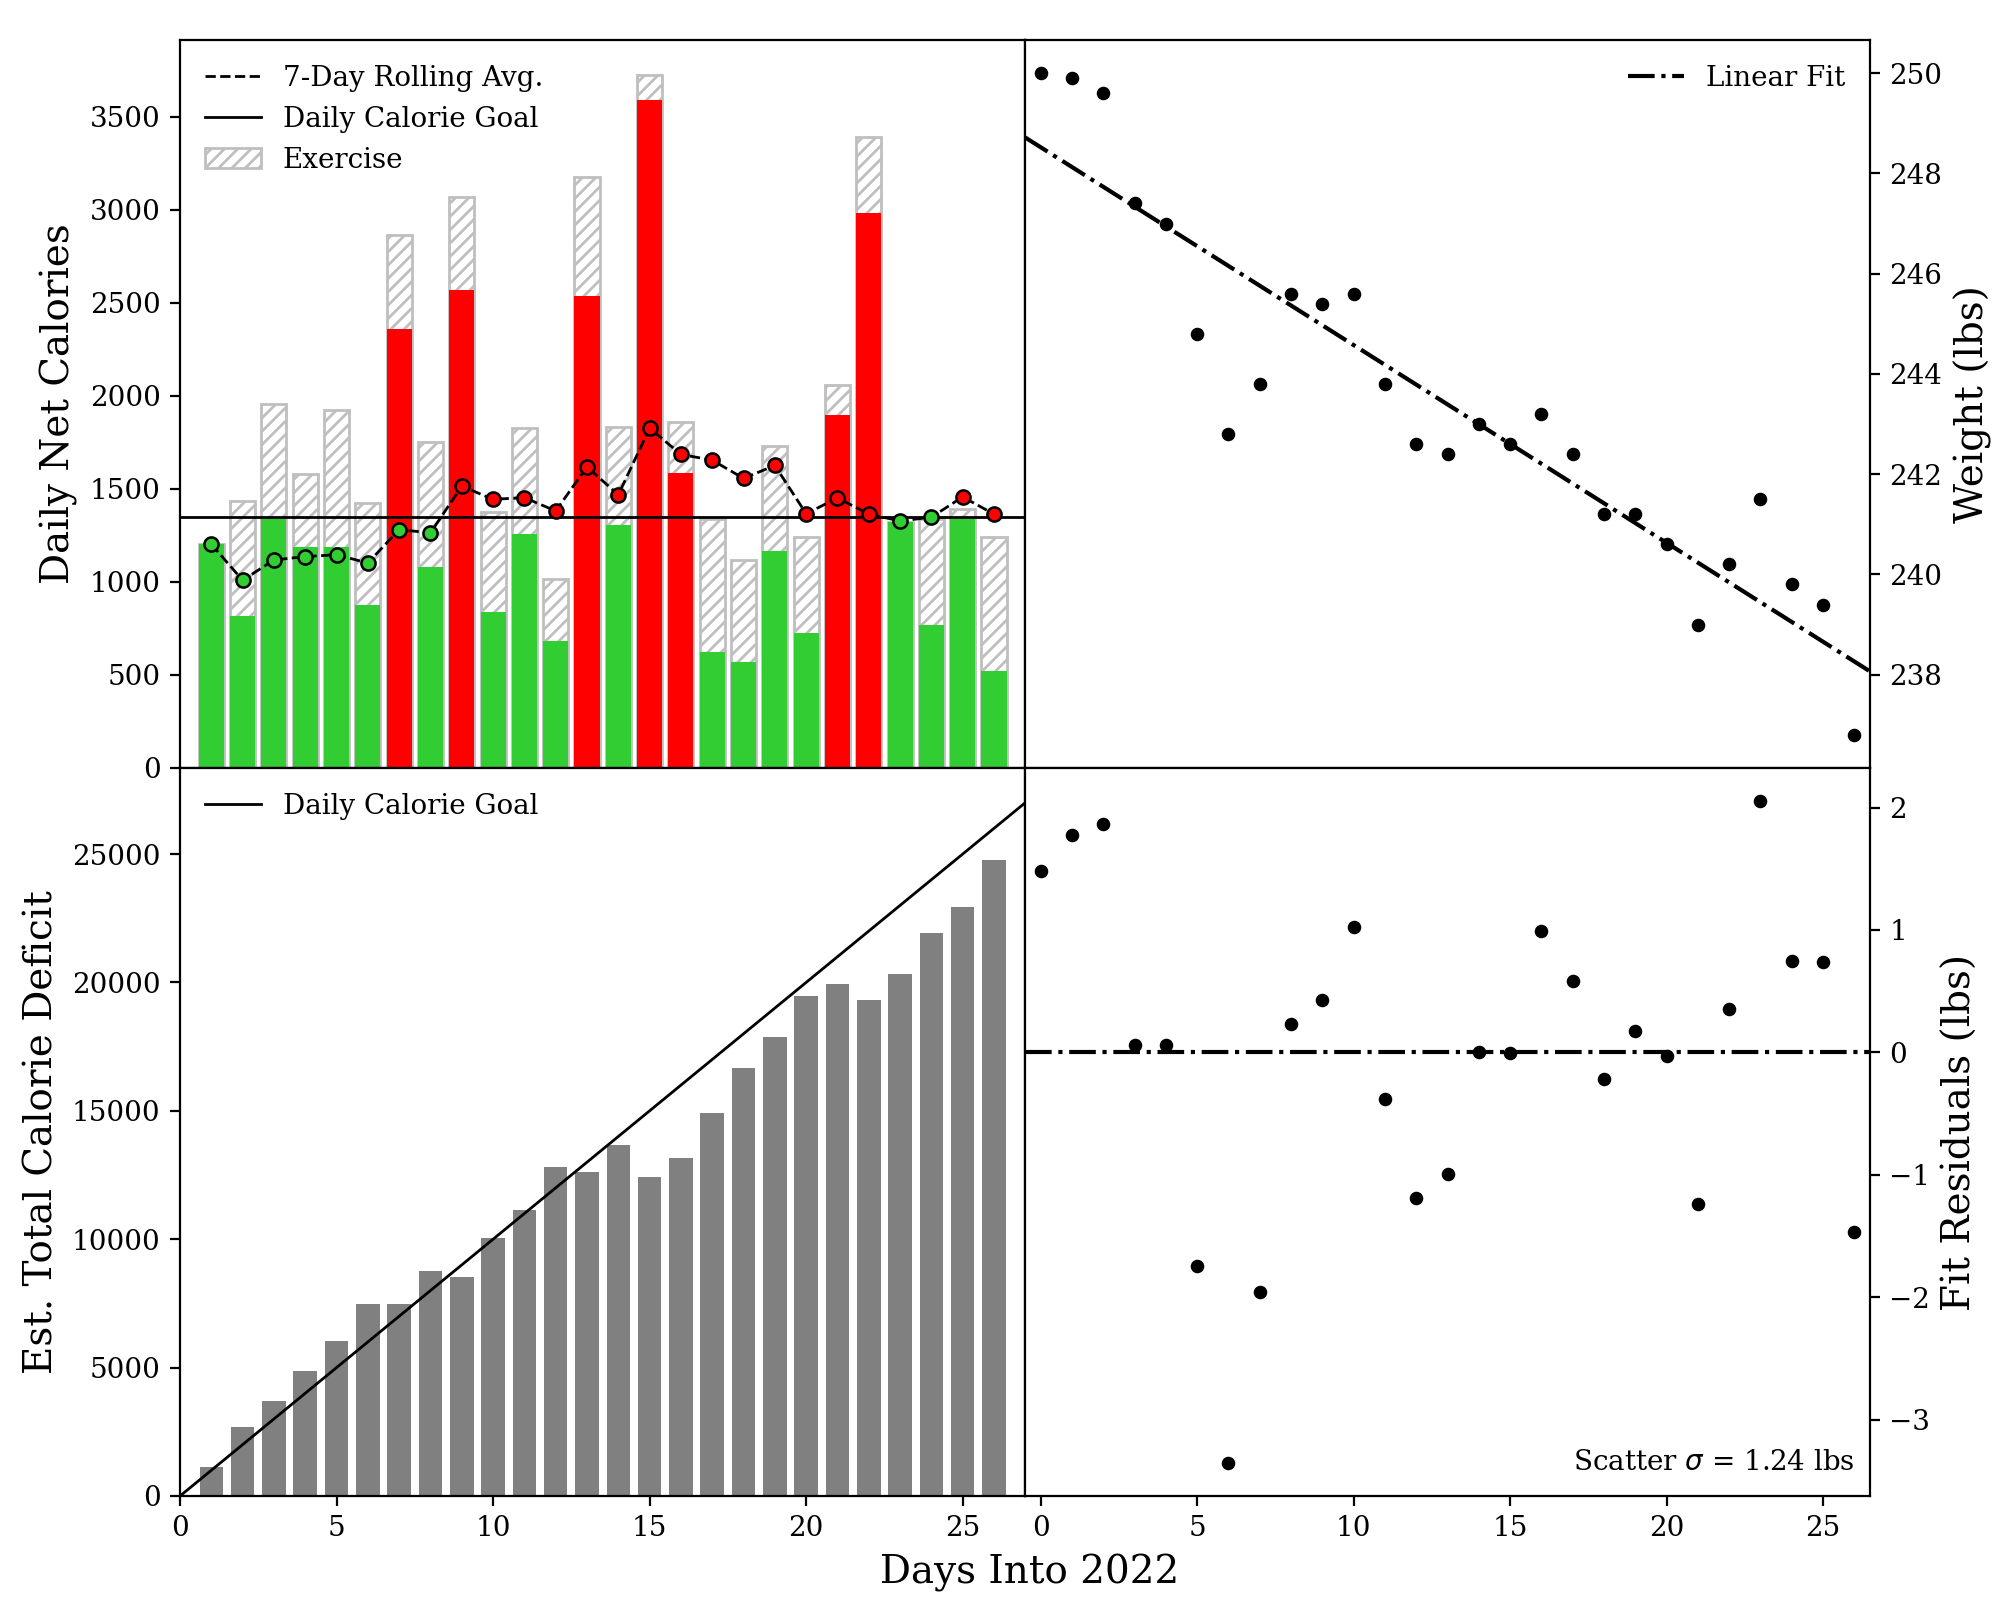
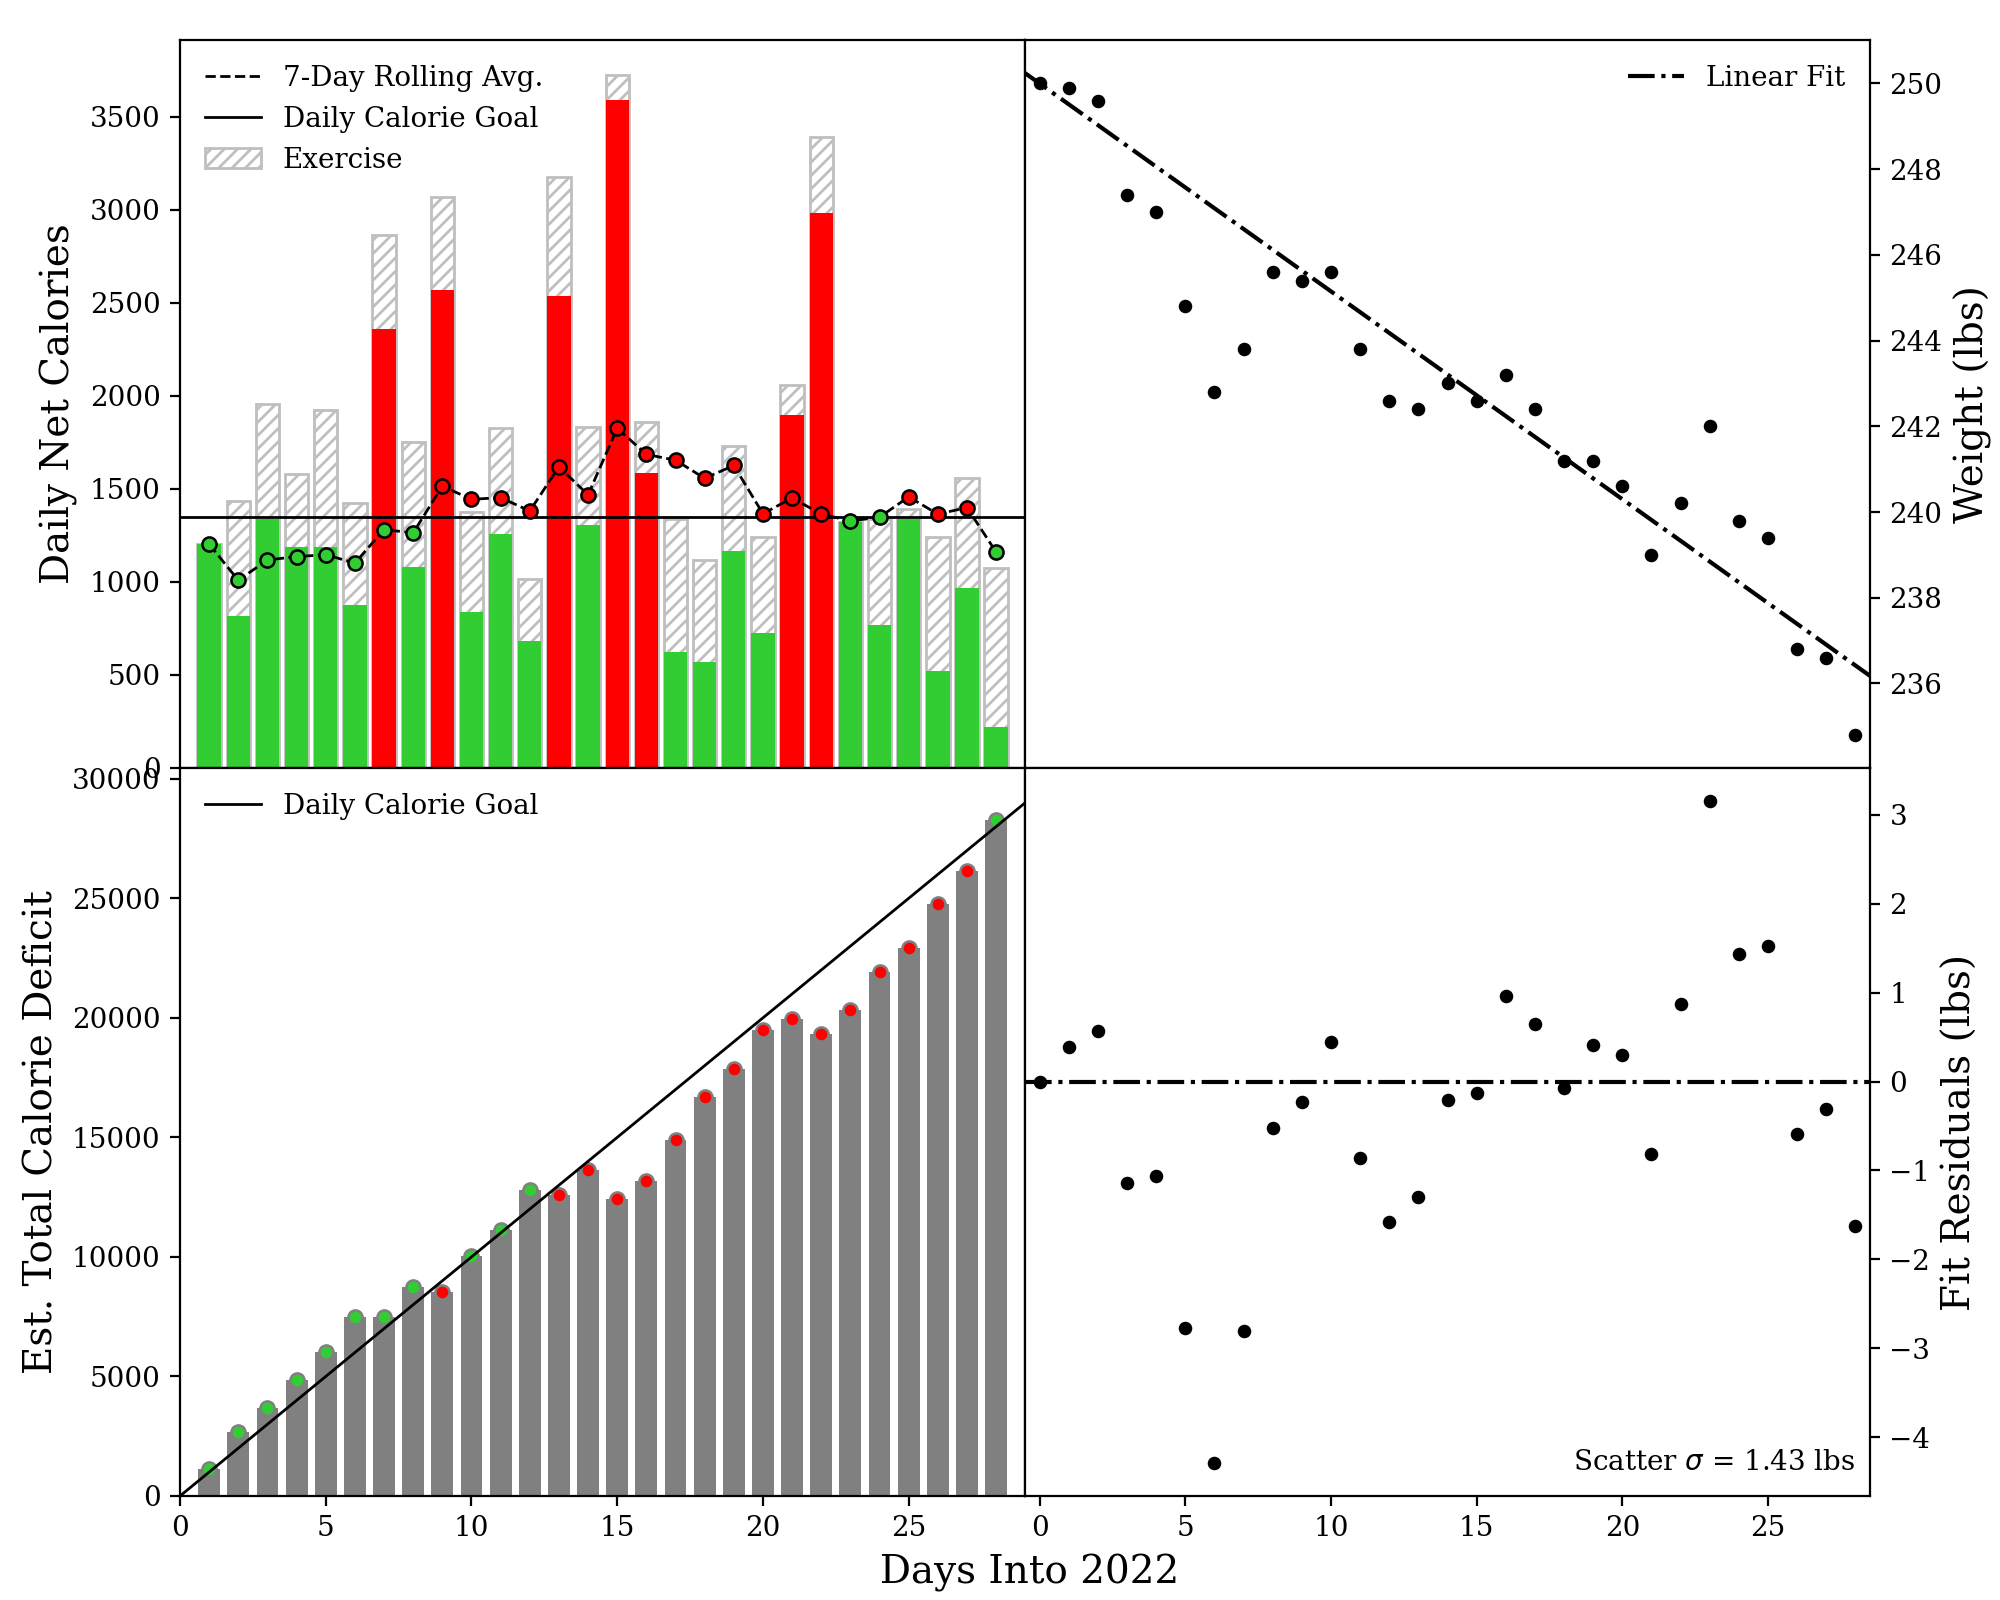
Fixed bug with miscalculated date

diff --git a/Analyzer.py b/Analyzer.py
@@ -143,10 +143,17 @@ plt.legend(fontsize=10, loc='upper left', frameon=False)
 plt.subplot(2, 2, 3)
 
 x_fit = np.linspace(min(DateInts)-1,max(DateInts)+1)
-plt.plot(x_fit, 1000.0*x_fit, linestyle='-', color='k', linewidth=1.0,label="Daily Calorie Goal")
-
+plt.plot(x_fit, (BasecCals-GoalCals)*x_fit, linestyle='-', color='k', linewidth=1.0,label="Daily Calorie Goal", zorder=50000+1)
 
 plt.bar(DateInts, CumulativeNetCals, color='0.5', width=0.75)
+
+for i in range(len(NetCals)):
+    if CumulativeNetCals[i] >= (i+1)*(BasecCals-GoalCals):
+        plt.scatter(DateInts[i], CumulativeNetCals[i], color='limegreen', s=10, zorder=50000)
+    else:
+        plt.scatter(DateInts[i], CumulativeNetCals[i], color='red', s=10, zorder=50000)
+plt.scatter(DateInts, CumulativeNetCals, color='0.5', s=25, zorder=50000-1)
+
 plt.xticks(fontsize=10)
 plt.yticks(fontsize=10)
 plt.xlabel("                                                                     Days Into 2022", fontsize=14)
@@ -155,7 +162,7 @@ plt.xlim(min(DateInts)-1,max(DateInts)+0.99)
 plt.legend(fontsize=10, loc='upper left', frameon=False)
 
 
-
+'''
 # let's fit a simple linear regression
 slr = LinearRegression(copy_X=True)
 #add the initial point data point from Dec. 31, 2021 manually
@@ -163,15 +170,23 @@ slr.fit(np.insert(DateInts, 0, 0).reshape(-1,1), np.insert(Weights, 0, InitWeigh
 
 dateints_fit = np.linspace(-0.5,max(DateInts)+0.5)
 weights_fit = slr.intercept_ + dateints_fit*slr.coef_[0]
-GoalDays = ( GoalWeight-slr.intercept_ ) / slr.coef_[0]
+GoalDays = ( GoalWeight-slr.intercept_ ) / slr.coef_[0] - max(DateInts)
+
+residuals = np.insert(Weights, 0, InitWeight) - slr.predict(np.insert(DateInts, 0, 0).reshape(-1,1))
+residuals_std = np.std( residuals )
+'''
 
 #actually let's force the intercept to be InitWeight
-#slr = LinearRegression(copy_X=True, fit_intercept=False)
-##add the initial point data point from Dec. 31, 2021 manually
-#slr.fit(np.insert(DateInts, 0, 0).reshape(-1,1), np.insert(Weights, 0, InitWeight)-InitWeight)
-#dateints_fit = np.linspace(-0.5,max(DateInts)+0.5)
-#weights_fit = InitWeight + dateints_fit*slr.coef_[0]
-#GoalDays = ( GoalWeight-InitWeight ) / slr.coef_[0]
+slr = LinearRegression(copy_X=True, fit_intercept=False)
+#add the initial point data point from Dec. 31, 2021 manually
+slr.fit(np.insert(DateInts, 0, 0).reshape(-1,1), np.insert(Weights, 0, InitWeight)-InitWeight)
+dateints_fit = np.linspace(-0.5,max(DateInts)+0.5)
+weights_fit = InitWeight + dateints_fit*slr.coef_[0]
+GoalDays = ( GoalWeight-InitWeight ) / slr.coef_[0] - max(DateInts)
+
+residuals = np.insert(Weights, 0, InitWeight) - slr.predict(np.insert(DateInts, 0, 0).reshape(-1,1)) - InitWeight
+residuals_std = np.std( residuals )
+
 
 print()
 print("So far you have been losing about "+str(round(-slr.coef_[0],2))+" pounds per day ("+str(round(-slr.coef_[0]*7,2))+" pounds per week).")
@@ -203,8 +218,6 @@ plt.legend(fontsize=10, loc='upper right', frameon=False)
 
 plt.subplot(2, 2, 4)
 
-residuals = np.insert(Weights, 0, InitWeight) - slr.predict(np.insert(DateInts, 0, 0).reshape(-1,1))
-residuals_std = np.std( residuals )
 plt.text(max(DateInts), min(residuals), "Scatter $\sigma$ = "+str(round(residuals_std,2))+" lbs",
         ha='right', va='center', fontsize=10)
 
